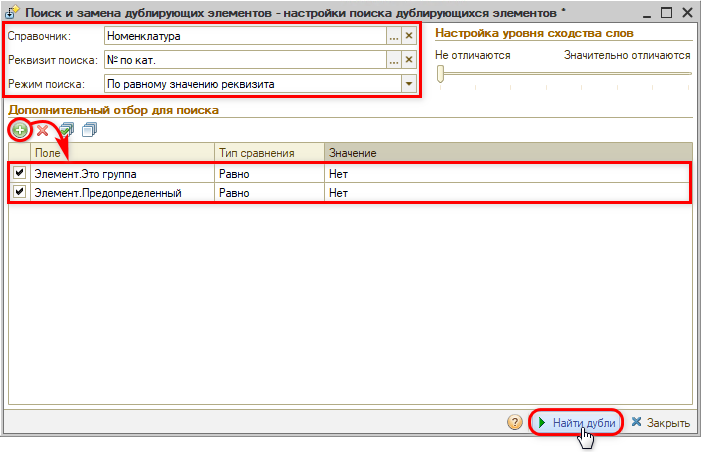
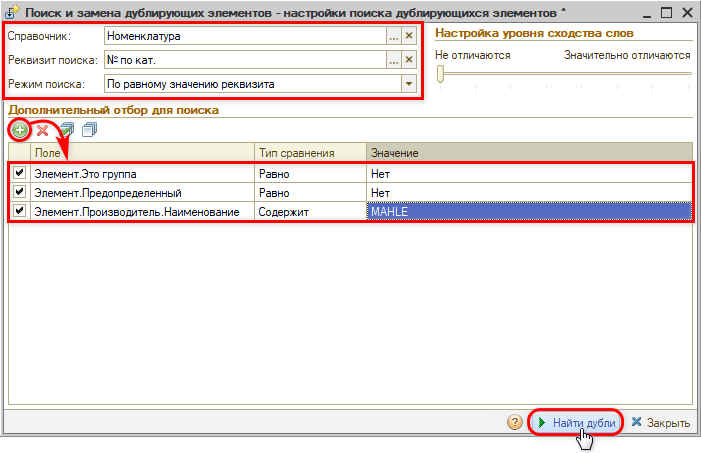
Статья «Поиск и замена дублирующихся записей»: поиск дублей по номенклатуре с отбором по производителю (MAHLE, разные написания, тип сравнения «В списке»), настройка списка колонок, удаление записи, не являющейся дублем; скриншоты 03–09 (Катя, 27.10.2026).

Changed region(s): [[0.0, 0.0619, 1.0, 0.4956], [0.0, 0.8673, 1.0, 0.9912], [0.03, 0.1239, 0.0599, 0.1549]]

diff --git a/articles/5S AUTO/Администрирование и настройка системы/Поиск и замена дублирующихся записей/poisk-i-zamena-dubliruyuschikhsya-zapisey.md b/articles/5S AUTO/Администрирование и настройка системы/Поиск и замена дублирующихся записей/poisk-i-zamena-dubliruyuschikhsya-zapisey.md
@@ -1,6 +1,6 @@
 # Поиск и замена дублирующихся записей
 
-<table><tr><td><b>Время чтения:</b> 11 мин.</td><td><b>Обновлено:</b> 27.10.2026</td></tr></table>
+<table><tr><td><b>Время чтения:</b> 14 мин.</td><td><b>Обновлено:</b> 27.10.2026</td></tr></table>
 
 > ![уровень сложности статьи](attachments/01-uroven-slozhnosti-stati.png) **Статья для опытных пользователей!**
 
@@ -29,17 +29,21 @@
 
 ### Пример работы
 
-Рассмотрим пример поиска дублей в справочнике «Номенклатура».
+Рассмотрим пример поиска дублей в справочнике «Номенклатура» по номеру по каталогу.
+
+Если искать дубли только по реквизиту «№ по кат.» во всем справочнике, список групп получится слишком большим, и в нем трудно понять, что является дублями, а что нет: одинаковые номера по каталогу встречаются у разных производителей. Поэтому поиск удобно ограничить производителем.
 
 На форме обработки:
 
 - в поле *Справочник* выбираем значение «Номенклатура»,
 - в поле *Реквизит поиска* выбираем значение «№ по кат.» (можно искать по любому из реквизитов справочника),
 - в поле *Режим поиска* выбираем значение «По равному значению реквизита» (поиск дублей по точному совпадению),
-- в табличной части «Дополнительный отбор для поиска» кнопкой «Добавить» задаем условия отбора: «Элемент.Это группа» – «Равно» – «Нет» и «Элемент.Предопределенный» – «Равно» – «Нет», чтобы в поиск не попали группы и предопределенные элементы. При необходимости можно добавить и другие условия (например, «Тип номенклатуры» не равен «Масла») или ограничить поиск конкретным значением (например, «Элемент.Наименование» содержит название товара),
+- в табличной части «Дополнительный отбор для поиска» кнопкой «Добавить» задаем условия отбора: «Элемент.Это группа» – «Равно» – «Нет» и «Элемент.Предопределенный» – «Равно» – «Нет», чтобы в поиск не попали группы и предопределенные элементы, а также «Элемент.Производитель.Наименование» – «Содержит» – «MAHLE», чтобы искать дубли только среди товаров этого производителя,
 - нажимаем кнопку «Найти дубли»:
 
   ![Переход к поиску дублей по номенклатуре](attachments/03-perehod-k-poisku-dubley-po-nomenklature-1.png)
+
+Производитель одной и той же детали может быть заведен по-разному: например, «MAHLE», «MAHLE ORIGINAL», «Mahle/Knecht». Условие «Содержит» находит все такие варианты. Если производитель записан по-русски, такие карточки в поиск не попадут. В этом случае можно выбрать тип сравнения «В списке» и перечислить в значении все варианты написания производителя, в том числе русские. А чтобы найти все карточки конкретной детали независимо от написания производителя, задаем отбор по ее номеру по каталогу.
 
 > [!WARNING]
 > Нельзя объединять группу с элементом (например, папку номенклатуры с карточкой товара) и предопределенные элементы – они нужны для работы программы. Такое объединение может нарушить целостность данных, и программа перестанет корректно работать во всей базе. Условия отбора «Элемент.Это группа» и «Элемент.Предопределенный» необязательны, но рекомендуем их добавлять, чтобы такие элементы случайно не попали в поиск.
@@ -47,37 +51,41 @@
 Режим «По похожим словам» находит значения, которые похожи, но не совпадают точно, например наименования с опечаткой. Ползунок «Настройка уровня сходства слов» задает, насколько сильно могут различаться значения: чем ближе он к «Значительно отличаются», тем больше элементов попадет в одну группу.
 
 > [!NOTE]
-> Не рекомендуем искать в режиме «По похожим словам», особенно с ползунком, сдвинутым к «Значительно отличаются»: в одну группу попадают разные элементы с похожими значениями. Кроме того, без дополнительного отбора обработка проверяет весь справочник, и в большой базе поиск идет долго (программа на это время перестает отвечать). Чтобы поиск прошел быстрее, ограничьте его отбором, например по наименованию.
+> Не рекомендуем искать в режиме «По похожим словам», особенно с ползунком, сдвинутым к «Значительно отличаются»: в одну группу попадают разные элементы с похожими значениями. Кроме того, без дополнительного отбора обработка проверяет весь справочник, и в большой базе поиск идет долго (программа на это время перестает отвечать). Чтобы поиск прошел быстрее, ограничьте его отбором, например по производителю.
 
 Если дубли не найдены, проверяем, что значения реквизита поиска у элементов совпадают полностью и в отборе указаны так же, как в элементах.
 
-В результате отображаются дублирующиеся записи, сгруппированные по реквизиту поиска. При клике на группу дублей в нижней табличной части детально отображаются записи справочника, совпадающие по реквизиту поиска (в данном случае по «№ по кат.»):
+В результате отображаются дублирующиеся записи, сгруппированные по реквизиту поиска. При клике на группу дублей в нижней табличной части детально отображаются записи справочника, совпадающие по реквизиту поиска (в данном случае по «№ по кат.»). В примере в группе «014 PS 20800 000» четыре карточки. Три из них – одна и та же деталь, вкладыши шатунные: наименования и производители («Mahle/Knecht», «MAHLE ORIGINAL», «MAHLE») заведены по-разному, но номер по каталогу один. Четвертая карточка – кольца поршневые: это другая деталь, номер по каталогу у нее введен с ошибкой:
 
 ![Найденные дубли по номенклатуре](attachments/04-naydennye-dubli-po-nomenklature-1.png)
 
-Внимательно просматриваем карточки номенклатуры дублей: чтобы открыть карточку, дважды щелкаем по строке в колонке «Объект» и нажимаем кнопку «Открыть». Совпадение реквизита поиска еще не означает, что это дубль: в примере у воздушного фильтра тот же номер по каталогу, что и у масляного.
+Состав колонок нижней таблицы можно настроить: на панели над таблицей нажимаем кнопку «Настройка списка» и отмечаем нужные колонки – в примере выведена колонка «Производитель». Колонки можно переставлять местами, перетаскивая их заголовки мышью:
 
-При необходимости кнопкой «Удалить» убираем из списка те записи, которые не считаем дублирующимися (в примере удаляем воздушный фильтр и оставляем два дубля масляного фильтра):
+![Настройка списка](attachments/05-nastroyka-spiska-1.png)
 
-![Убранные дубли в найденных записях](attachments/05-ubrannye-dubli-v-naydennyh-zapisyah-1.png)
+Внимательно просматриваем карточки номенклатуры дублей: чтобы открыть карточку, дважды щелкаем по строке в колонке «Объект» и нажимаем кнопку «Открыть». Совпадение реквизита поиска еще не означает, что это дубль: под одним номером по каталогу может оказаться другая деталь, например если номер введен с ошибкой. Такие записи убираем из списка: выделяем строку и нажимаем кнопку «Удалить». В примере удаляем кольца поршневые и оставляем три дубля вкладышей:
+
+![Удаление из списка записи, которая не является дублем](attachments/06-udalenie-ne-dublya-1.png)
+
+Запись удаляется только из списка найденных дублей – сама карточка номенклатуры остается в справочнике.
 
 Если в элементе-дубле есть данные, которых нет в правильном элементе, переносим их в правильный элемент до объединения.
 
-Устанавливаем курсор на правильную запись и нажимаем кнопку «Указать как правильный»:
+Устанавливаем курсор на правильную запись (в примере – первая карточка) и нажимаем кнопку «Указать как правильный»:
 
-![Указание правильного среди дублей](attachments/06-ukazanie-pravilnogo-sredi-dubley-1.png)
+![Указание правильного среди дублей](attachments/07-ukazanie-pravilnogo-sredi-dubley-1.png)
 
 Соглашаемся заменить ссылки с неправильного на правильный элемент справочника в документах, регистрах и прочих объектах программы:
 
-![Принятие замены ссылок на дубли](attachments/07-prinyatie-zameny-ssylok-na-dubli-1.png)
+![Принятие замены ссылок на дубли](attachments/08-prinyatie-zameny-ssylok-na-dubli-1.png)
 
 В результате отображаются ссылки на данные, в которых произойдет замена, и настройки замены. По умолчанию все флажки включены: например, при включенном флажке «Удалять элементы после замены» элемент-дубль будет удален. При необходимости настройки замены можно изменить. Для замены нажимаем кнопку «Выполнить замену элементов»:
 
-![Замена элементов при объединении дублей](attachments/08-zamena-elementov-pri-obedinenii-dubley-1.png)
+![Замена элементов при объединении дублей](attachments/09-zamena-elementov-pri-obedinenii-dubley-1.png)
 
 Подтверждаем замену и удаление элементов справочника.
 
-ГОТОВО! Дублирующийся элемент удален и ссылки на него заменены на правильный элемент.
+ГОТОВО! Дублирующиеся элементы удалены, и ссылки на них заменены на правильный элемент.
 
 ## Что нельзя объединять
 
@@ -85,7 +93,7 @@
 
 - **предопределенные элементы** – например, организацию «-» в справочнике «Организации» или головное подразделение в справочнике «Подразделения компании». Они нужны для работы программы;
 - **группу с элементом** – например, папку номенклатуры с карточкой товара;
-- **элементы, которые только похожи**: однофамильцев с разными телефонами и автомобилями, товары с одинаковым номером по каталогу, но разных производителей или разного назначения. Совпадение реквизита поиска еще не означает, что это дубль.
+- **элементы, которые только похожи**: однофамильцев с разными телефонами и автомобилями, товары с одинаковым номером по каталогу, но разных производителей (а не разных написаний одного производителя) или разного назначения. Совпадение реквизита поиска еще не означает, что это дубль.
 
 > [!NOTE]
 > Если задвоилась не карточка клиента, а сделка, используйте обработку «Объединение процессов» – см. статью «[Объединение сделок](../../CRM/Объединение%20сделок/obedinenie-sdelok.md)».
